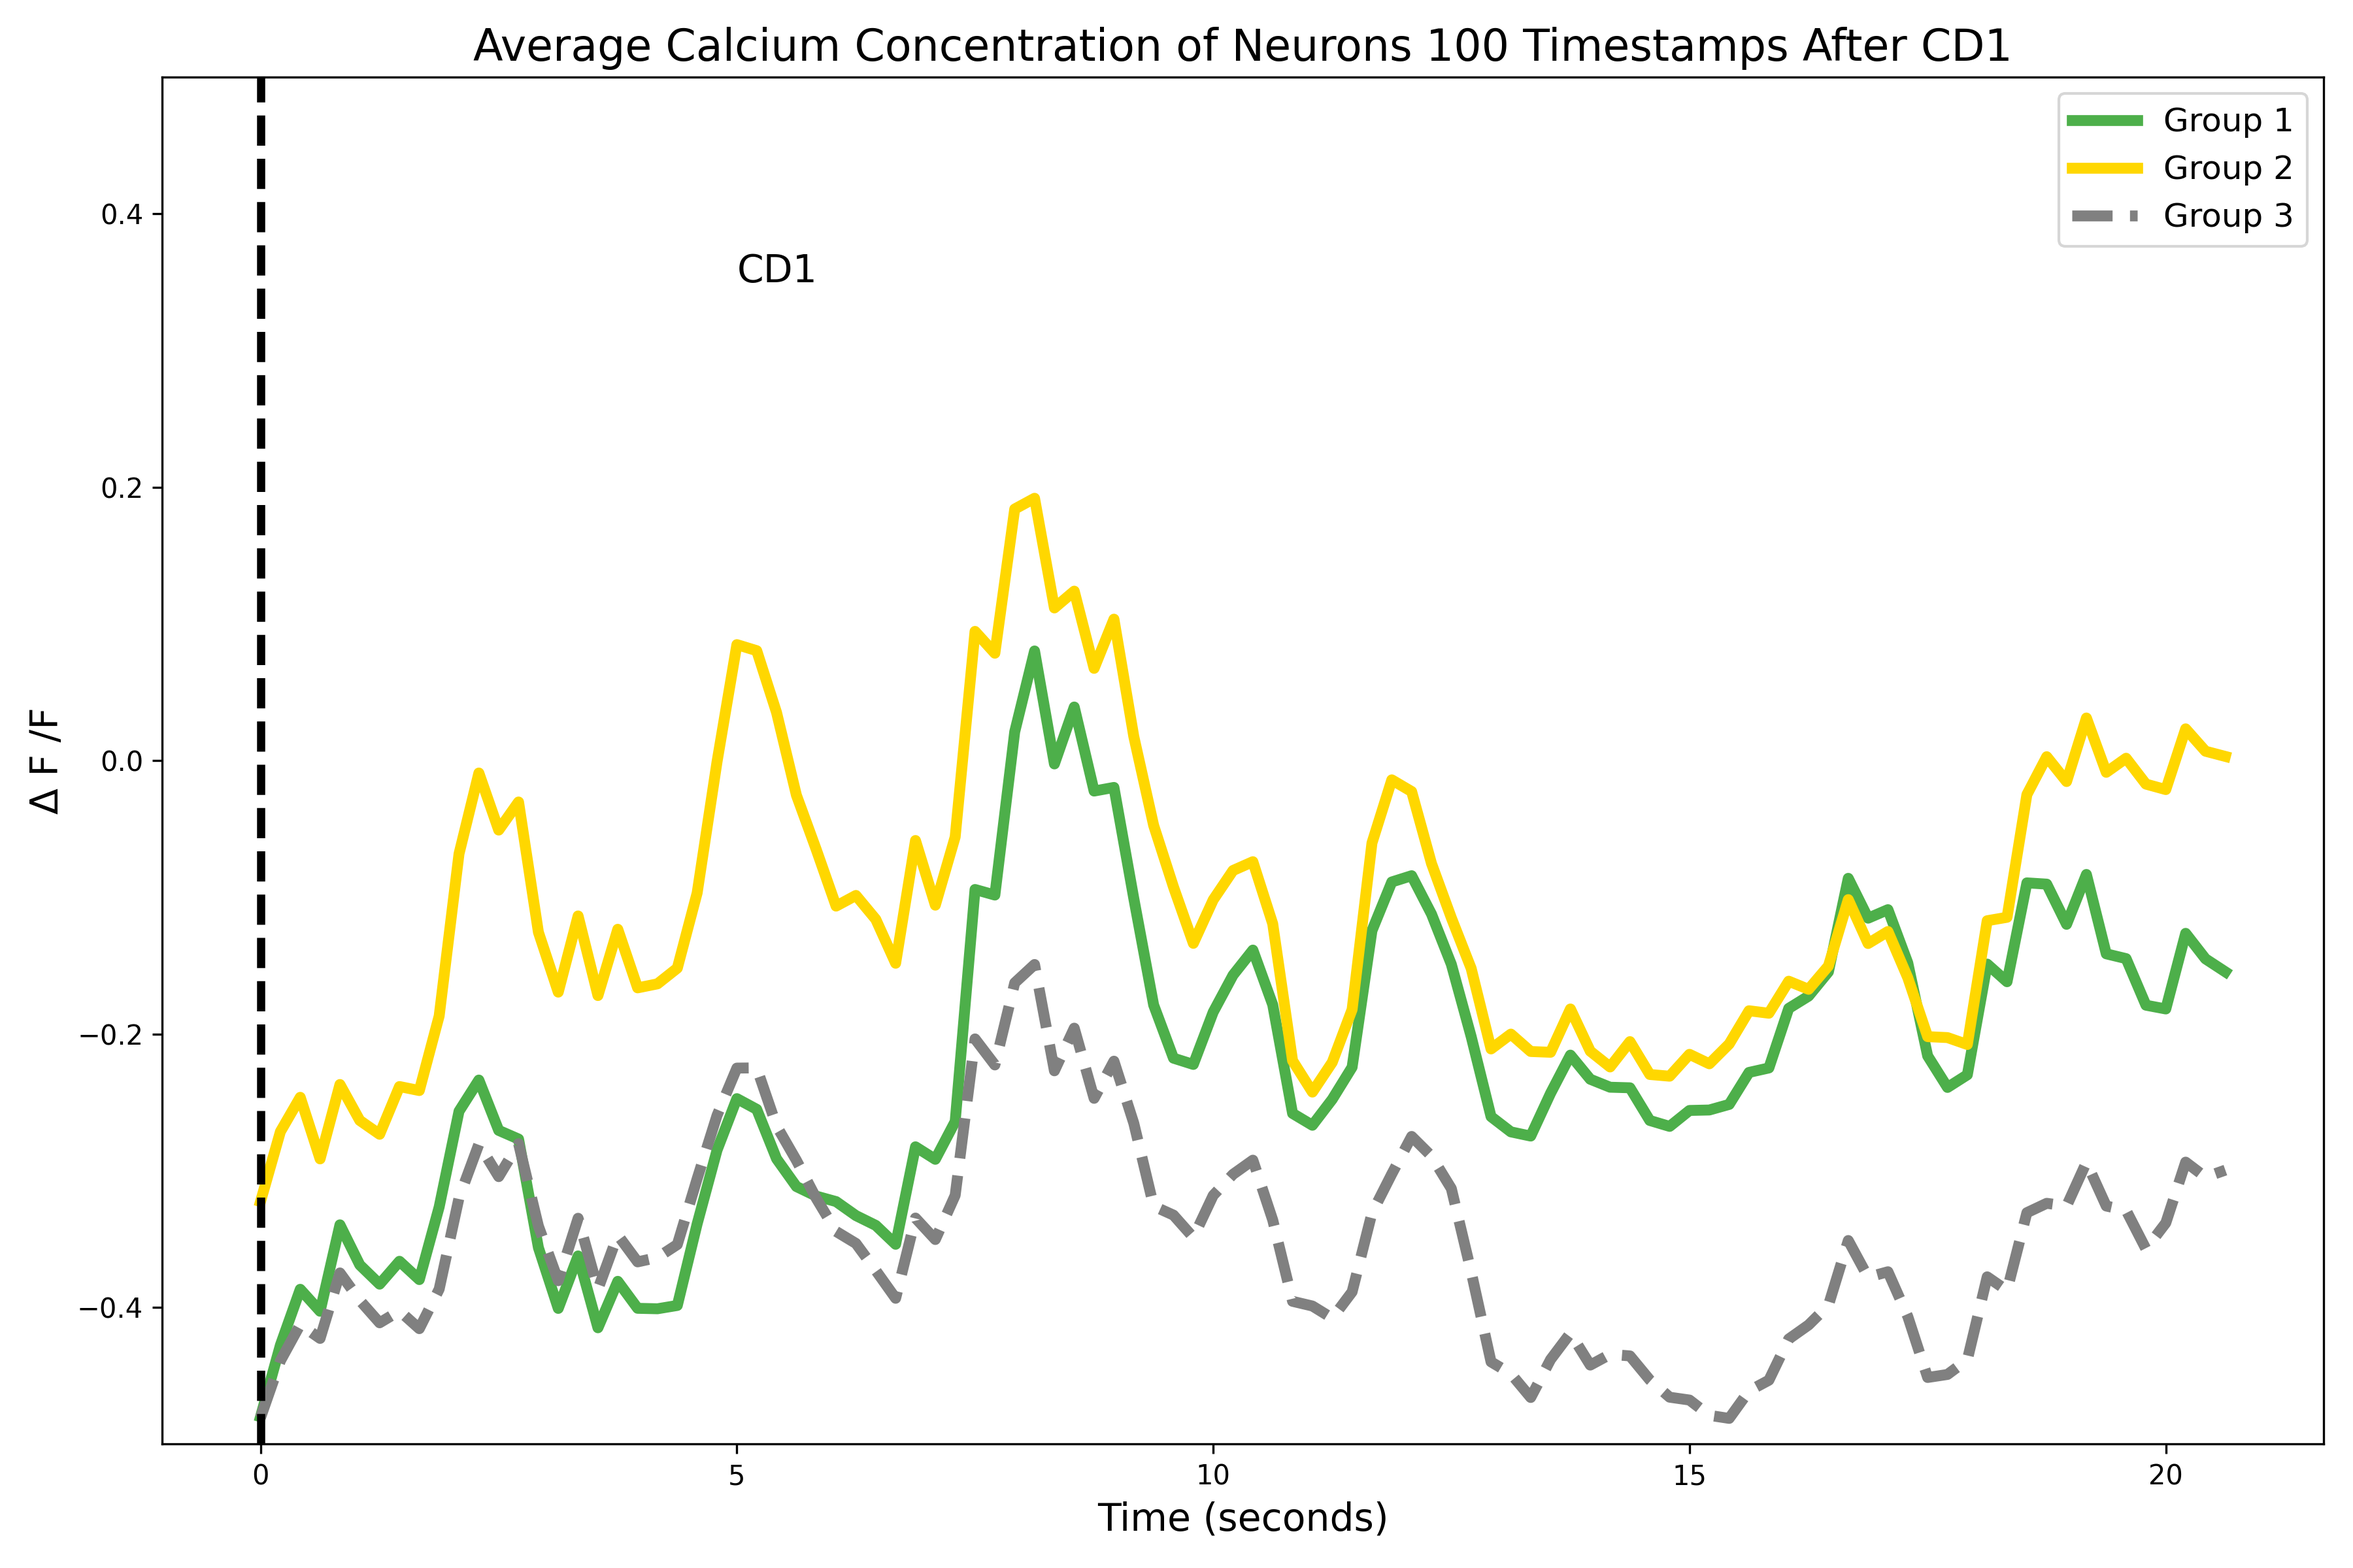
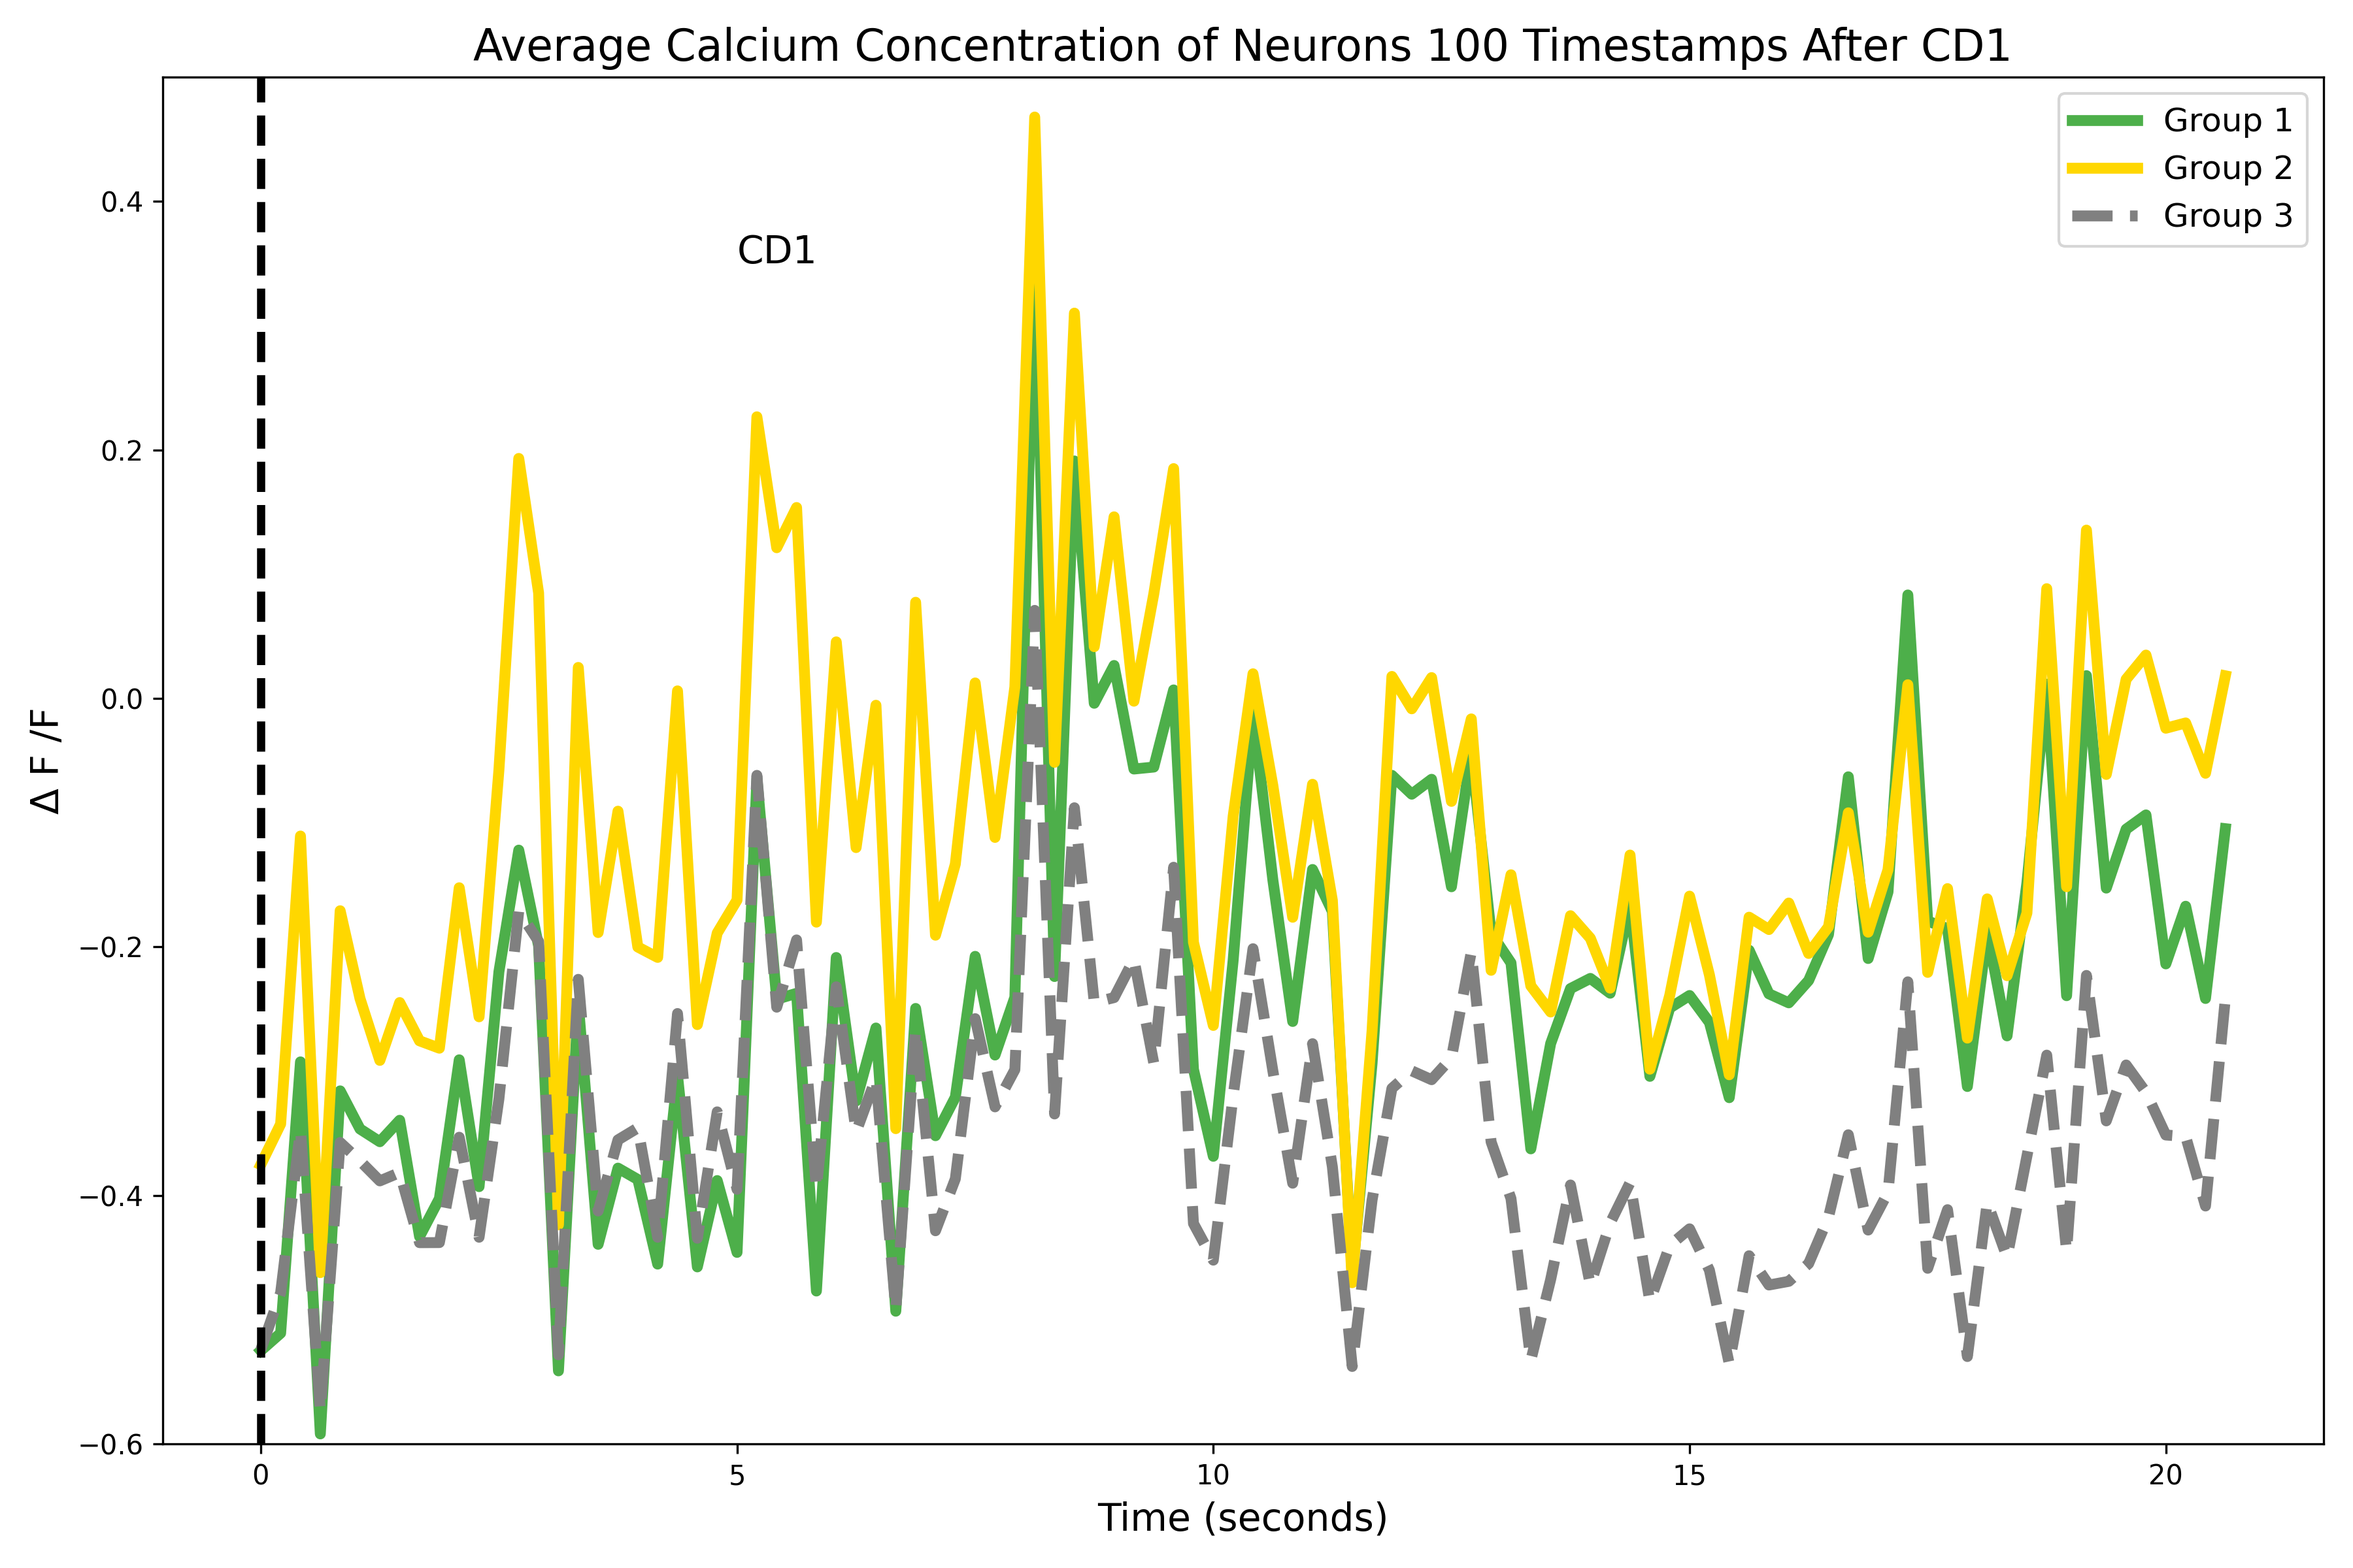
1

diff --git a/Visualization/src/show_trace.py b/Visualization/src/show_trace.py
@@ -262,7 +262,7 @@ def plot_trace_before_cd1(data, cd1_index, n_stamps, output_path, sampling_rate=
     plt.title(f'Average Calcium Concentration of Neurons {n_stamps} Timestamps Before CD1', fontsize=16)
     
     # 设置统一的y轴范围
-    plt.ylim([-0.5, 0.5])
+    plt.ylim([-0.6, 0.5])
     
     # 添加垂直线标记CD1出现时间点
     plt.axvline(x=plot_data['relative_time'].max(), color='k', linestyle='--', linewidth=3)
@@ -335,7 +335,7 @@ def plot_trace_after_cd1(data, cd1_index, n_stamps, output_path, sampling_rate=4
     plt.title(f'Average Calcium Concentration of Neurons {n_stamps} Timestamps After CD1', fontsize=16)
     
     # 设置统一的y轴范围
-    plt.ylim([-0.5, 0.5])
+    plt.ylim([-0.6, 0.5])
     
     # 添加垂直线标记CD1出现时间点
     plt.axvline(x=0, color='k', linestyle='--', linewidth=3)
@@ -438,7 +438,7 @@ def plot_combined_cd1_trace(data, cd1_index, before_stamps, after_stamps, output
     plt.title(f'Comparison of Average Calcium Concentration of Neurons Before and After CD1 ({before_stamps}/{after_stamps} timestamps)', fontsize=16)
     
     # 设置统一的y轴范围
-    plt.ylim([-0.5, 0.5])
+    plt.ylim([-0.6, 0.5])
     
     # 添加垂直线标记CD1出现时间点
     plt.axvline(x=0, color='k', linestyle='--', linewidth=3)
